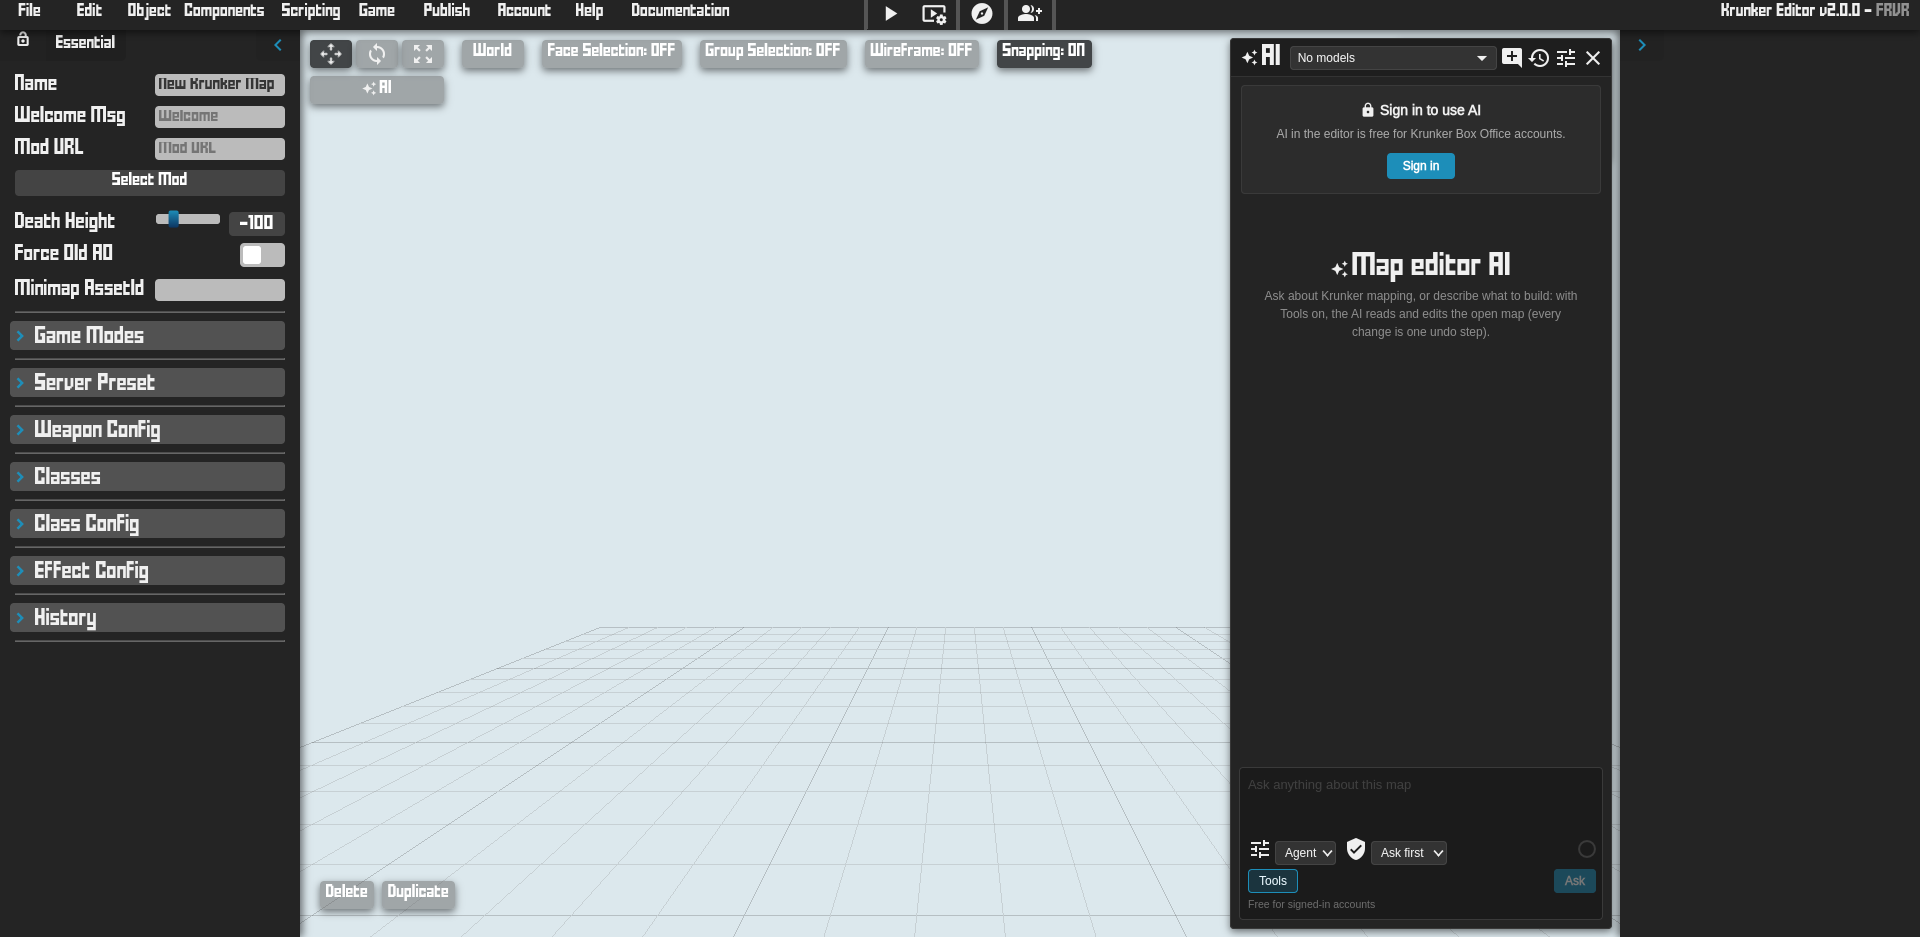
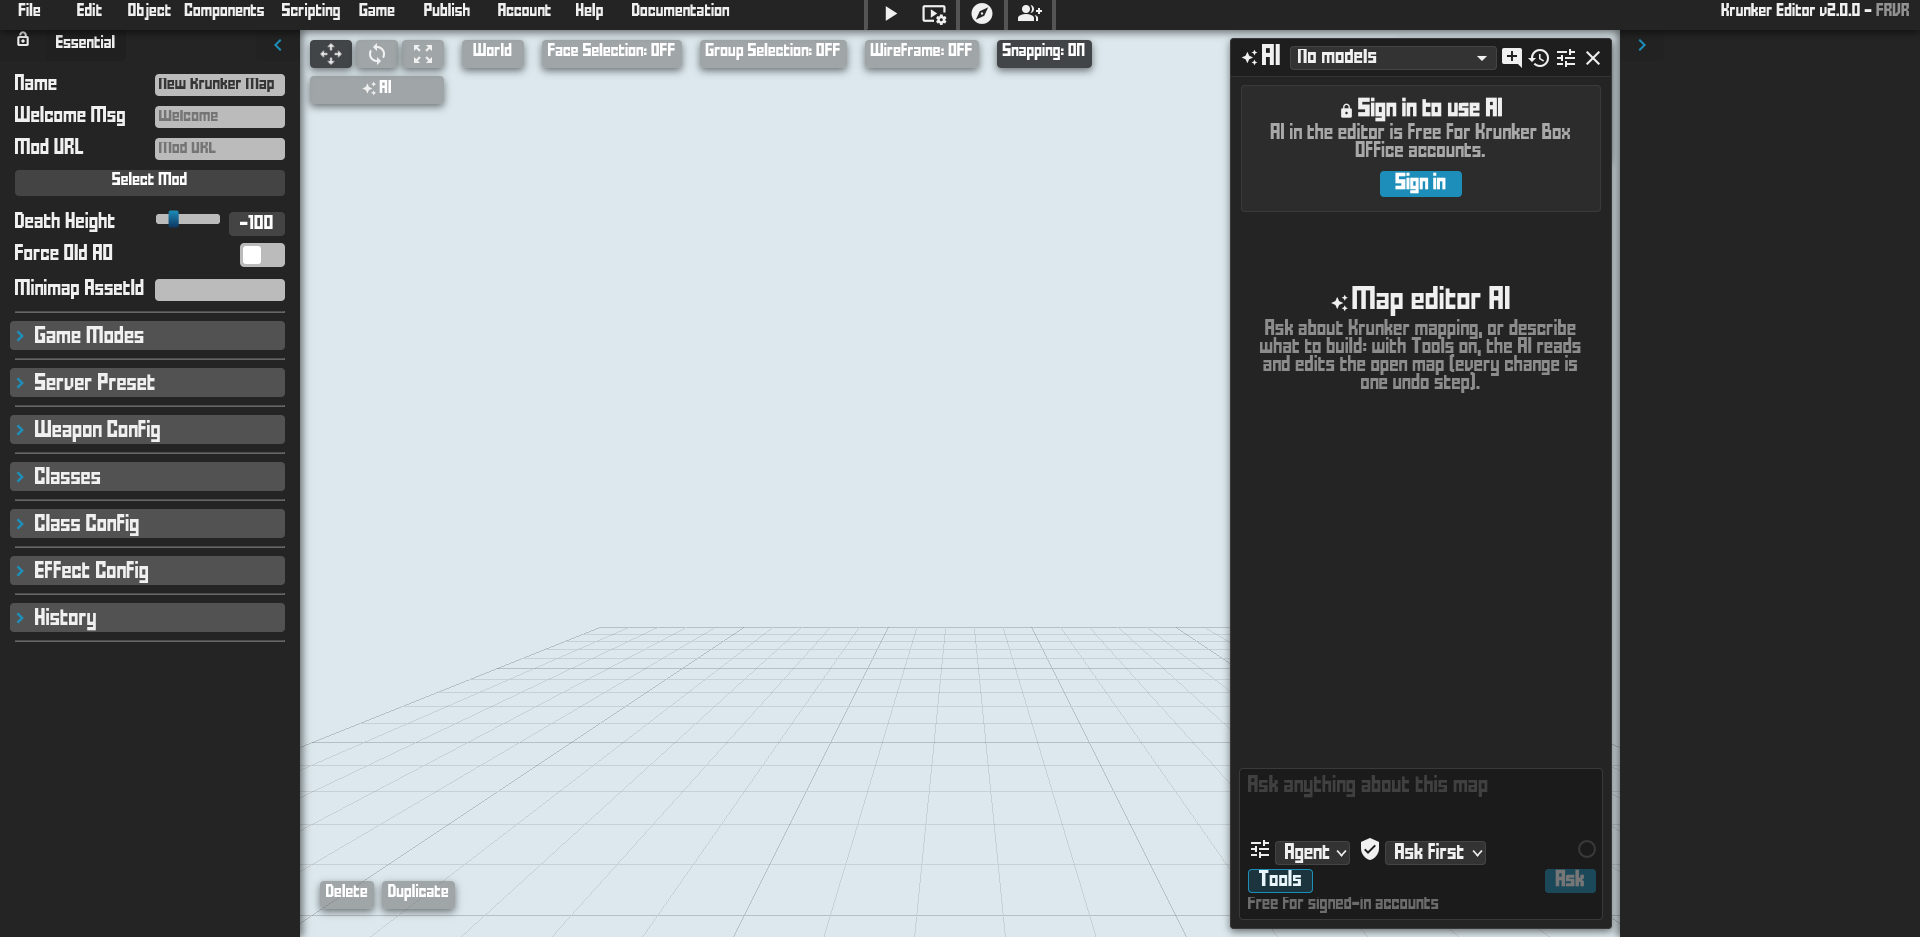
html: clamp scroll ranges against the client box

diff --git a/client/src/html/engine/tests/test_layout.c b/client/src/html/engine/tests/test_layout.c
@@ -1734,6 +1734,14 @@ static void t_scroll_extent(void)
     CHECK(mrg && NEAR(mrg->scroll_h, 150, 0.01), "last child's margin-bottom counted, padding once (%.1f)", mrg ? mrg->scroll_h : -1);
     CHECK(txt && NEAR(txt->scroll_h, 140, 0.01), "four 25px lines + padding = 140 (%.1f)", txt ? txt->scroll_h : -1);
     CHECK(ab && NEAR(ab->scroll_h, 130, 0.01), "abs box extends scrollHeight by its border box only (%.1f)", ab ? ab->scroll_h : -1);
+    /* scrollTop = scrollHeight clamps against clientHeight (the padding box), not the content box. Chrome leaves the
+     * fitting 20px-padded scroller at 0; subtracting the content box wrongly allowed exactly the 40px of padding.
+     * The overflowing one stops at 160 - 140 = 20, not 60. The inline axis follows the same rule. */
+    layout_set_scroll(fx->tree, fit, fit->scroll_w, fit->scroll_h);
+    CHECK(NEAR(fit->scroll_x, 0, 0.01) && NEAR(fit->scroll_y, 0, 0.01),
+          "fitting padded scroller cannot scroll by its padding (x %.1f, y %.1f)", fit->scroll_x, fit->scroll_y);
+    layout_set_scroll(fx->tree, over, 0, over->scroll_h);
+    CHECK(NEAR(over->scroll_y, 20, 0.01), "overflow clamp uses clientHeight: 160 - 140 = 20 (%.1f)", over->scroll_y);
     fx_free(fx);
 }
 

diff --git a/client/src/html/engine/layout_block.c b/client/src/html/engine/layout_block.c
@@ -818,8 +818,12 @@ static float scrollbar_width_for(LayoutTree *t, Box *b)
 void layout_finish_scroll(LayoutTree *t, Box *b)
 {
     (void)t;
-    float max_x = kn_maxf(0.0f, b->scroll_w - box_content_w(b));
-    float max_y = kn_maxf(0.0f, b->scroll_h - box_content_h(b));
+    /* Chrome clamps scrollLeft / scrollTop against clientWidth / clientHeight: the padding box minus
+     * scrollbars, not the content box. scrollWidth / scrollHeight are already at least that client box,
+     * so a fitting padded scroller has no range; subtracting the content box invented a range equal to
+     * its padding (the editor AI's empty list scrolled 16px when render_all asked for the bottom). */
+    float max_x = kn_maxf(0.0f, b->scroll_w - (box_padding_w(b) - b->scrollbar_w));
+    float max_y = kn_maxf(0.0f, b->scroll_h - (box_padding_h(b) - b->scrollbar_h));
     b->scroll_x = kn_clampf(b->scroll_x, 0, max_x);
     b->scroll_y = kn_clampf(b->scroll_y, 0, max_y);
 }

diff --git a/tools/uidiff/README.md b/tools/uidiff/README.md
@@ -435,6 +435,7 @@ pixel follows an intended change; pixels that differed for any other reason keep
 | `kn-om-*` (10), `kn-om-tools-short` | 2026-10-15 (uidiff-red) | 1f32a8bc made the window a flex column and 422e6a02 wraps tile, tool and gun names; krunknative.css `.knOmMain` then lets the whole Tools pane set the row's height (a 3-tile search showed one tool). Only the window's box (x 290-990, y 140-580) is new; the chat behind it keeps the old pixels. Region rects follow the new boxes (`KRUNKNATIVE_SCENARIO_DUMP='#menuWindow'`). `kn-om-weapons` / `kn-om-search` are rendered with engine-replaced-pct (a percentage-width `<img>` adds only its border and padding to min-content, as in Chrome), which narrows the weapon icons. `kn-om-tools-short` is now 1920x600 with UI Scaling off (with scaling on the pane always fits) and has regions. |
 | `kn-ranked-sort` | 2026-11-23 | The baseline (a956c0fc3, 2026-10-15) predates 2eef54563, which made the ranked leaderboard sort descending as v10 does: `sortColumn` starts at score / ascending and is toggled once on open (`deob-10.0.7.js:110388-110394`, 110414), so the header shows U+2193 (110432; v10.0.2 `game.js` 108074 / 108099 / 108115 is the same). Only the arrow and the row order changed. |
 | `kn-image-collection`, `kn-image-collection-new` | 2026-11-23 | image_collection.c now draws v10.0.7's own markup and wording (`deob-10.0.7.js:214718-214756`: Image Collection / Add Image, the Backgrounds ... Icons tabs, the Select / Delete tiles with their Custom / Default line, the built-in Midnight Snow, the New Image form) instead of Box Office's own (My Images, kn-alt.css's grid, a stacked form). The whole popup changed, by design; the menu behind it is the old reference's. The regions follow the new popups' boxes. |
+| `kn-editor-ai` | 2026-11-24 | b19dc9ab intentionally put the KN-only panel on the editor's GameFont; `layout_finish_scroll` now clamps against clientHeight, so its empty list no longer scrolls 16 px by its padding. Only the panel (x 1230..1611, y 38..928) was re-rendered. Chromium on the captured DOM at dpr 1 agrees with the native header / sign-in / empty / composer regions to 0.111 / 0.178 / 0.067 / 0.340 %; every pixel outside the panel is the old baseline. |
 | `kn-servers-official-mixed` | 2026-11-23 | The empty `#kioStatus` line no longer collapses the gap under the tab strip to 22 px (see the 2026-11-23 triage); only the lobby list moved, 8 CSS px down. |
 | `kn-rent-regions`, `kn-rent-region`, `kn-rent-mine`, `kn-rent-server`, `kn-rent-owned` | 2026-11-23 | rent_servers_ui.c now draws v10.0.7's buyServ markup and wording (`deob-10.0.7.js:219853-219935`): no Box Office "Rent a Server" header, region cards without a thumbnail box, tab 3's Server Region / Time remaining / Rental Duration or Extend Time / Select or Change Game / terms / Server Cost, and the message line and buttons outside the panel. The whole window changed, by design; only the region rect (280,50 720x620) was taken from the new render, every pixel outside it keeps the old reference. |
 | `game-updating`, `ingame-playerlist-spectate-centred`, `kn-end-share-pop`, `kn-image-collection`, `kn-image-collection-new`, `kn-lb-grid`, `kn-om-*` (10), `kn-ranked-error`, `kn-ranked-found`, `kn-ranked-sort`, `kn-rent-owned`, `kn-rent-server`, `kn-servers-official-error`, `kn-servers-official-mixed`, `kn-store-kio-eterno`, `kn-store-kio-ranked`, `kn-tip-item`, `kn-turf-boards`, `kn-turf-howto`, `lost-connection`, `lost-connection-inactive`, `v10-market/{browse,create,detail,sales,trading}`, `v10-wallet/skins` | 2026-11-23 | Translated windows snap in their parent's space (sub-pixel placement, see the 2026-11-23 triage). Only the failing regions were touched, and in them only the pixels that the paint change moved: the render of the same tree without it (base) against the render with it; every other pixel keeps the old reference (several have menu backgrounds that changed since, e.g. the market's Daily Spin row). |
@@ -854,4 +855,14 @@ fuzz, its scene is 0.000 % and instructions 0.893 % (text fuzz 12, max 4, as the
 `seq-boot-curtain` is also 10 / 10, with the curtain crossing at 353.7 ms in both reference and render
 (timing delta 0.0 ms). The four-shard run after the migration is **848 / 6 / 89**: this instructions
 region is the only outcome that changed, and no region went from pass to fail.
+
+### Padded scrollers clamp against clientHeight (2026-11-24)
+
+`kn-editor-ai`'s empty text painted 16 px above its own layout rect. Chromium on the captured DOM had the same rect
+(y 288) and `scrollTop = 0`; KN had `scrollTop = 16` even though scrollHeight equalled clientHeight (551.75).
+`layout_finish_scroll` subtracted `box_content_h`, excluding 12 + 4 px of padding, where Chrome's scroll range uses
+clientHeight. It now uses the padding box minus the scrollbar on each axis. `html_layout_test` checks both axes on a
+fitting padded scroller and the exact 20 px range of an overflowing one. The AI panel's four former failures are
+0.000 % against the browser-verified, intentionally updated KN baseline; Account Connections is separately fixed by
+pinning its loaded, unconfigured Discord response (2.148 / 1.502 %, both pass at normal fuzz).
 
